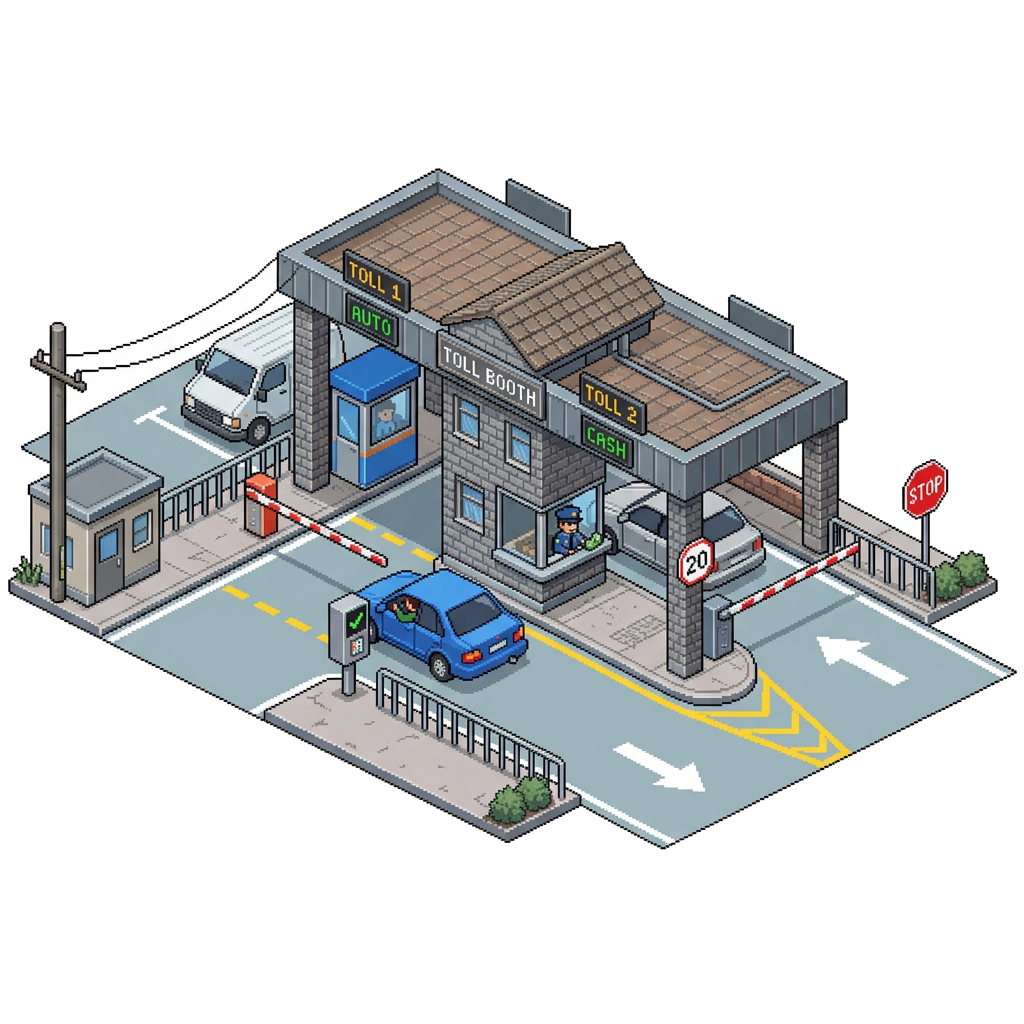
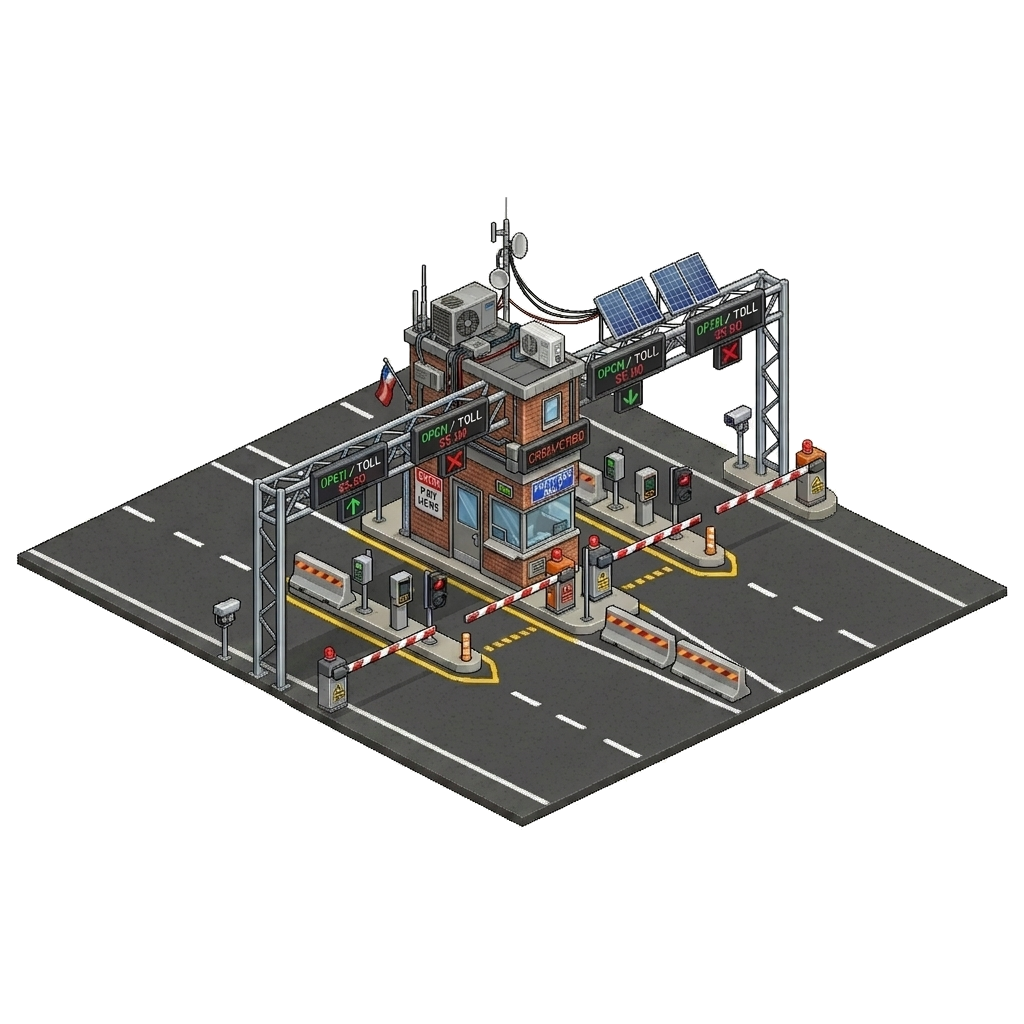
Improved some assets.

diff --git a/src/app/globals.css b/src/app/globals.css
@@ -25,6 +25,23 @@ body {
   font-family: 'Pixelify Sans', sans-serif;
 }
 
+/* Remove default React Flow white boxes from ALL custom nodes */
+.react-flow__node,
+.react-flow__node-output,
+.react-flow__node-input,
+.react-flow__node-default,
+.react-flow__node-webhook,
+.react-flow__node-geminiFactory,
+.react-flow__node-httpRequest,
+.react-flow__node-conditional,
+.react-flow__node-delay {
+  background: transparent !important;
+  border: none !important;
+  box-shadow: none !important;
+  padding: 0 !important;
+  border-radius: 0 !important;
+}
+
 img {
   image-rendering: auto;
 }

diff --git a/src/components/canvas/nodes/DelayNode.tsx b/src/components/canvas/nodes/DelayNode.tsx
@@ -3,17 +3,17 @@ import DiamondHighlight from './DiamondHighlight';
 
 export default function DelayNode({ data, selected }: { data: any, selected?: boolean }) {
   return (
-    <div className="relative group" style={{ width: 192, height: 96 }}>
-      {selected && <DiamondHighlight />}
-      
+    <div className="relative group" style={{ width: 260, height: 128 }}>
+      {selected && <DiamondHighlight cols={4} rows={4} style={{ left: 32, top: -32 }} />}
+
       <Handle type="target" position={Position.Left} className="w-2 h-2 bg-gray-500 border-none rounded-full z-10" style={{ left: -12, top: '50%' }} />
-      
-      <div className="absolute bottom-0 left-0 w-full pointer-events-none" style={{ height: 256 }}>
+
+      <div className="absolute pointer-events-none" style={{ left: 30, bottom: -40, width: '100%', height: 259, transform: 'scale(1.06)', transformOrigin: 'bottom center' }}>
         <img src="/assets/delay_stop.png" alt="Delay" className="w-full h-full object-contain" />
-        
-        <div className="absolute -top-4 right-4 text-gray-500 font-bold text-sm pointer-events-none animate-pulse">Zzz</div>
+
+        <div className="absolute -top-4 right-4 text-gray-500 font-bold text-sm pointer-events-none animate-pulse"></div>
       </div>
-      
+
       <div className="absolute -bottom-6 left-1/2 -translate-x-1/2 bg-black/70 text-white text-[10px] font-bold px-2 py-1 rounded opacity-0 group-hover:opacity-100 transition-opacity whitespace-nowrap pointer-events-none z-20">
         Truck Stop (Delay)
       </div>

diff --git a/src/components/canvas/nodes/ConditionalNode.tsx b/src/components/canvas/nodes/ConditionalNode.tsx
@@ -3,19 +3,19 @@ import DiamondHighlight from './DiamondHighlight';
 
 export default function ConditionalNode({ data, selected }: { data: any, selected?: boolean }) {
   return (
-    <div className="relative group" style={{ width: 192, height: 96 }}>
+    <div className="relative group" style={{ width: 164, height: 96 }}>
       {selected && <DiamondHighlight />}
-      
+
       <Handle type="target" position={Position.Left} className="w-2 h-2 bg-yellow-500 border-none rounded-full z-10" style={{ left: -12, top: '50%' }} />
-      
-      <div className="absolute bottom-0 left-0 w-full pointer-events-none" style={{ height: 256 }}>
+
+      <div className="absolute pointer-events-none" style={{ left: 15, bottom: -87, width: '100%', height: 256, transform: 'scale(1.15)', transformOrigin: 'bottom center' }}>
         <img src="/assets/conditional_gate.png" alt="Conditional" className="w-full h-full object-contain" />
       </div>
-      
+
       <div className="absolute -bottom-6 left-1/2 -translate-x-1/2 bg-black/70 text-white text-[10px] font-bold px-2 py-1 rounded opacity-0 group-hover:opacity-100 transition-opacity whitespace-nowrap pointer-events-none z-20">
         Toll Booth Checkpoint
       </div>
-      
+
       <Handle type="source" position={Position.Right} id="true" className="w-2 h-2 bg-green-500 border-none rounded-full z-10" style={{ right: -12, top: '30%' }} />
       <Handle type="source" position={Position.Right} id="false" className="w-2 h-2 bg-red-500 border-none rounded-full z-10" style={{ right: -12, top: '70%' }} />
     </div>

diff --git a/src/components/canvas/nodes/OutputNode.tsx b/src/components/canvas/nodes/OutputNode.tsx
@@ -3,12 +3,12 @@ import DiamondHighlight from './DiamondHighlight';
 
 export default function OutputNode({ data, selected }: { data: any, selected?: boolean }) {
   return (
-    <div className="relative group" style={{ width: 192, height: 96 }}>
-      {selected && <DiamondHighlight />}
+    <div className="relative group" style={{ width: 256, height: 128 }}>
+      {selected && <DiamondHighlight cols={4} rows={4} style={{ left: 32, top: -32 }}/>}
       
       <Handle type="target" position={Position.Left} className="w-2 h-2 bg-orange-500 border-none rounded-full z-10" style={{ left: -12, top: '50%' }} />
       
-      <div className="absolute bottom-0 left-0 w-full pointer-events-none" style={{ height: 256 }}>
+      <div className="absolute pointer-events-none" style={{ left: 32, bottom: -16, width: '100%', height: 300 }}>
         <img src="/assets/output_dock.png" alt="Output" className="w-full h-full object-contain" />
       </div>
       
@@ -16,12 +16,12 @@ export default function OutputNode({ data, selected }: { data: any, selected?: b
         Delivery Dock
       </div>
       
-      {data.output && (
+      {/* data.output && (
         <div className="absolute -top-48 left-1/2 -translate-x-1/2 bg-[#1e1e1e] border-4 border-[#2d2d2d] text-[#4af626] text-xs px-3 py-2 w-64 text-center max-h-32 overflow-y-auto pointer-events-auto z-20" style={{ boxShadow: '4px 4px 0px 0px rgba(0,0,0,0.5)' }}>
           <div className="text-[#a0a0a0] mb-1 border-b border-[#333] pb-1 uppercase tracking-widest">System Log</div>
           {data.output}
         </div>
-      )}
+      ) */}
     </div>
   );
 }

diff --git a/src/components/canvas/nodes/GeminiFactoryNode.tsx b/src/components/canvas/nodes/GeminiFactoryNode.tsx
@@ -3,12 +3,12 @@ import DiamondHighlight from './DiamondHighlight';
 
 export default function GeminiFactoryNode({ data, selected }: { data: any, selected?: boolean }) {
   return (
-    <div className="relative group" style={{ width: 320, height: 160 }}>
-      {selected && <DiamondHighlight cols={5} rows={5} />}
+    <div className="relative group" style={{ width: 192, height: 96 }}>
+      {selected && <DiamondHighlight cols={3} rows={3} />}
 
       <Handle type="target" position={Position.Left} className="w-2 h-2 bg-blue-500 border-none rounded-full z-10" style={{ left: -12, top: '50%' }} />
 
-      <div className="absolute pointer-events-none" style={{ left: 0, bottom: -64, width: '100%', height: 384, transformOrigin: 'bottom center' }}>
+      <div className="absolute pointer-events-none" style={{ left: 0, bottom: -50, width: '100%', height: 256, transformOrigin: 'bottom center' }}>
         <div className="absolute top-0 left-1/2 -translate-x-1/2 w-16 h-16 bg-blue-400 opacity-20 rounded-full blur-xl animate-pulse pointer-events-none -z-10"></div>
 
         <img src="/assets/gemini_factory.png" alt="Gemini Factory" className="w-full h-full object-contain" />

diff --git a/src/components/canvas/nodes/DiamondHighlight.tsx b/src/components/canvas/nodes/DiamondHighlight.tsx
@@ -12,11 +12,13 @@ export default function DiamondHighlight({
   rows = 3,
   color = 'rgba(200, 255, 0, 0.25)',
   strokeColor = 'rgba(200, 255, 0, 1)',
+  style = {},
 }: {
   cols?: number;
   rows?: number;
   color?: string;
   strokeColor?: string;
+  style?: React.CSSProperties;
 }) {
   // Each diamond tile is 64px wide × 32px tall in flow-space
   const tileW = 64;
@@ -62,7 +64,7 @@ export default function DiamondHighlight({
   return (
     <svg
       className="absolute inset-0 pointer-events-none z-0"
-      style={{ filter: 'drop-shadow(0px 0px 8px rgba(200, 255, 0, 0.8))' }}
+      style={{ filter: 'drop-shadow(0px 0px 8px rgba(200, 255, 0, 0.8))', ...style }}
       width={nodeW}
       height={nodeH}
       viewBox={`0 0 ${nodeW} ${nodeH}`}

diff --git a/src/app/layout.tsx b/src/app/layout.tsx
@@ -13,7 +13,7 @@ const geistMono = Geist_Mono({
 });
 
 export const metadata: Metadata = {
-  title: "Create Next App",
+  title: "LLMCraft",
   description: "Generated by create next app",
 };
 

diff --git a/src/app/login/page.tsx b/src/app/login/page.tsx
@@ -35,7 +35,7 @@ export default function LoginPage() {
   return (
     <div className="flex min-h-screen items-center justify-center bg-gray-50 p-4">
       <div className="w-full max-w-md bg-white rounded-xl shadow-lg p-8">
-        <h1 className="text-2xl font-bold text-center mb-6">Login to BrickFlow</h1>
+        <h1 className="text-2xl font-bold text-center mb-6">Login to LLMCraft</h1>
         
         {error && <div className="bg-red-50 text-red-500 p-3 rounded mb-4 text-sm">{error}</div>}
         